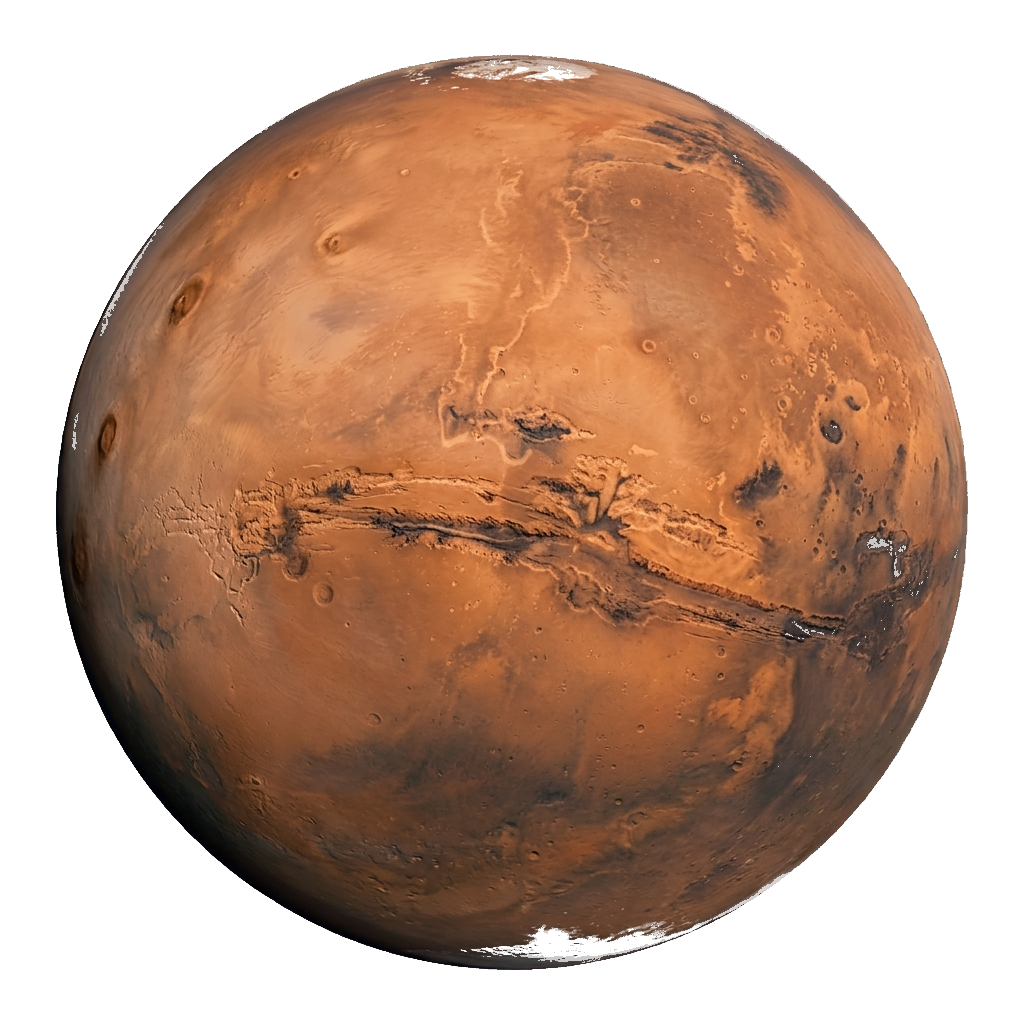
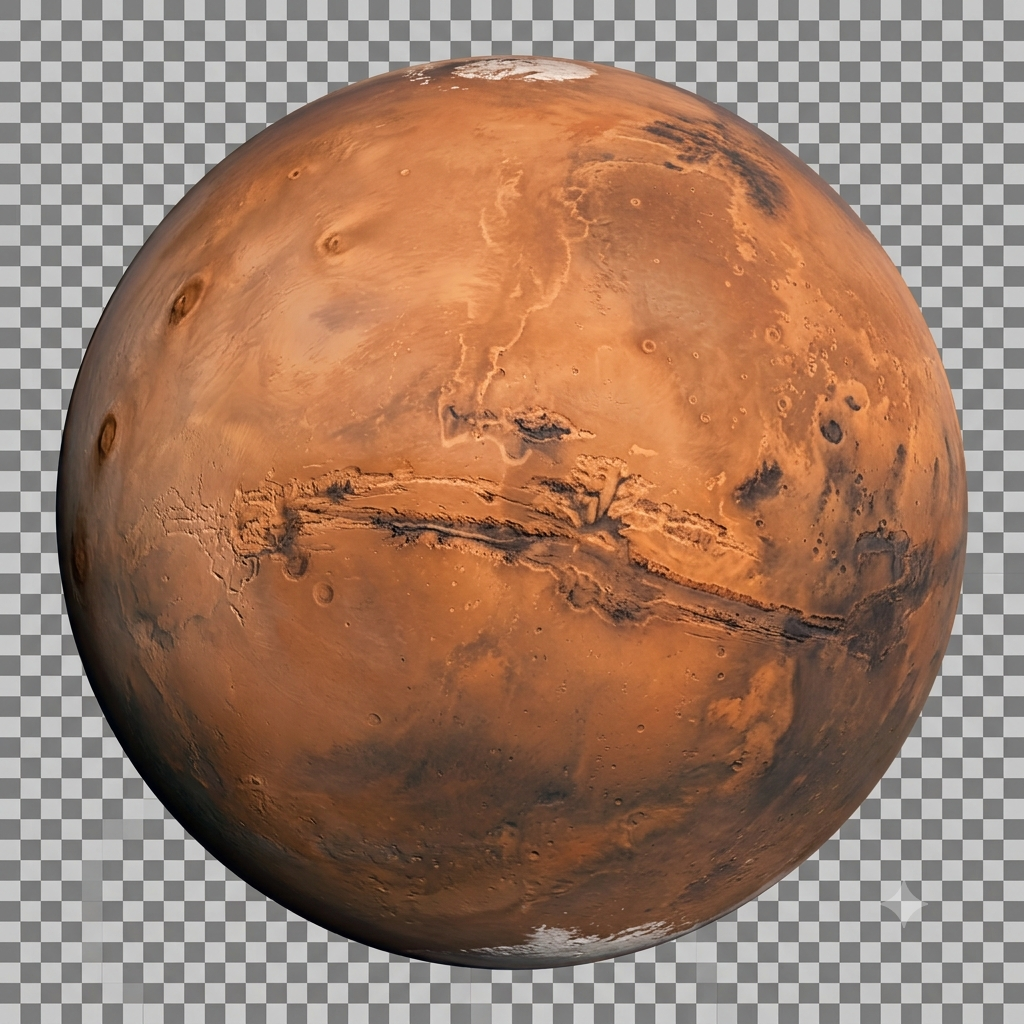
Fix planet image rendering: clip rotating hero to circle, confine canvas glow to planet area

diff --git a/src/components/PlanetImage.tsx b/src/components/PlanetImage.tsx
@@ -228,11 +228,16 @@ export default function PlanetImage({
       const rotation = animate ? (Date.now() - startTime.current) / 8000 : 0;
 
       if (showGlow && cfg.glowColor) {
+        ctx.save();
+        ctx.beginPath();
+        ctx.arc(cx, cy + floatY, size * cfg.radius * 1.8, 0, Math.PI * 2);
+        ctx.clip();
         const glowGrad = ctx.createRadialGradient(cx, cy + floatY, size * cfg.radius * 0.2, cx, cy + floatY, size * cfg.radius * 2);
         glowGrad.addColorStop(0, cfg.glowColor);
         glowGrad.addColorStop(1, "rgba(0,0,0,0)");
         ctx.fillStyle = glowGrad;
         ctx.fillRect(0, 0, size, size);
+        ctx.restore();
       }
 
       if (showShadow) {
@@ -270,8 +275,8 @@ export default function PlanetImage({
   }, [visible, size, planetId, showGlow, showShadow, animate, dpr]);
 
   return (
-    <div ref={containerRef} className={`inline-flex items-center justify-center ${className}`} style={{ width: size, height: size }}>
-      <canvas ref={canvasRef} style={{ width: size, height: size, imageRendering: "auto" }} />
+    <div ref={containerRef} className={`inline-flex items-center justify-center ${className}`} style={{ width: size, height: size, background: "transparent" }}>
+      <canvas ref={canvasRef} style={{ width: size, height: size, imageRendering: "auto", background: "transparent" }} />
     </div>
   );
 }

diff --git a/src/components/PlanetDashboard.tsx b/src/components/PlanetDashboard.tsx
@@ -216,7 +216,7 @@ export default function PlanetDashboard({ dest, content }: DashboardProps) {
             </div>
 
             <div className="order-1 lg:order-2 flex items-center justify-center">
-              <div className="relative w-72 h-72 lg:w-96 lg:h-96">
+              <div className="relative w-72 h-72 lg:w-96 lg:h-96 rounded-full overflow-hidden bg-transparent">
                 <div
                   className="absolute inset-0 rounded-full blur-[80px] animate-pulse"
                   style={{ background: GLOW_COLOR[accent] }}
@@ -224,7 +224,7 @@ export default function PlanetDashboard({ dest, content }: DashboardProps) {
                 <img
                   src={dest.image}
                   alt={dest.name}
-                  className="w-full h-full object-contain drop-shadow-2xl relative z-10"
+                  className="w-full h-full object-contain relative z-10 bg-transparent"
                   style={{
                     animation: "planetFloat 8s ease-in-out infinite, rotatePlanet 180s linear infinite",
                   }}